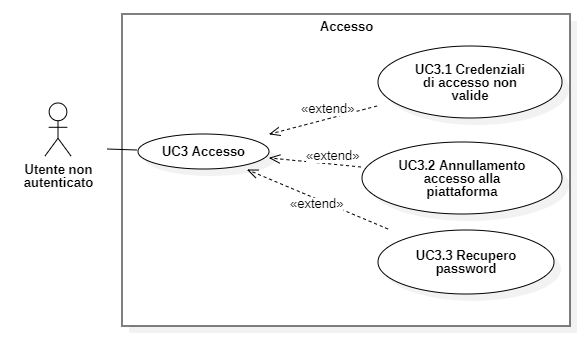
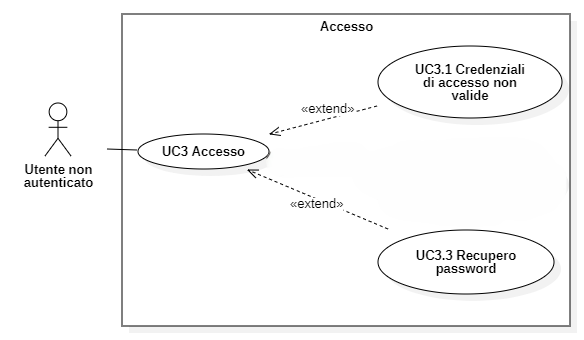
corretto uc

diff --git a/chapters/analisi_requisiti.tex b/chapters/analisi_requisiti.tex
@@ -198,12 +198,11 @@ In questa sezione vengono descritti gli attori che interagiscono con il sistema.
 \usecasealt{
     \begin{itemize}
         \item L'utente inserisce delle credenziali non valide <<extend>> \ucref{3.1}
-        \item L'utente esprime la volontà di annullare l'accesso <<extend>> \ucref{3.2}
         \item L'utente ha dimenticato le credenziali di accesso <<extend>> \ucref{3.3}
     \end{itemize}
 }
 \usecasepost{L'utente ha effettuato l'accesso e viene reindirizzato alla \emph{dashboard} dell'applicativo}
-\usecaseext{\ucref{3.1}, \ucref{3.2}, \ucref{3.3}}
+\usecaseext{\ucref{3.1}, \ucref{3.3}}
 \end{usecase}
 
 \begin{figure}[h]